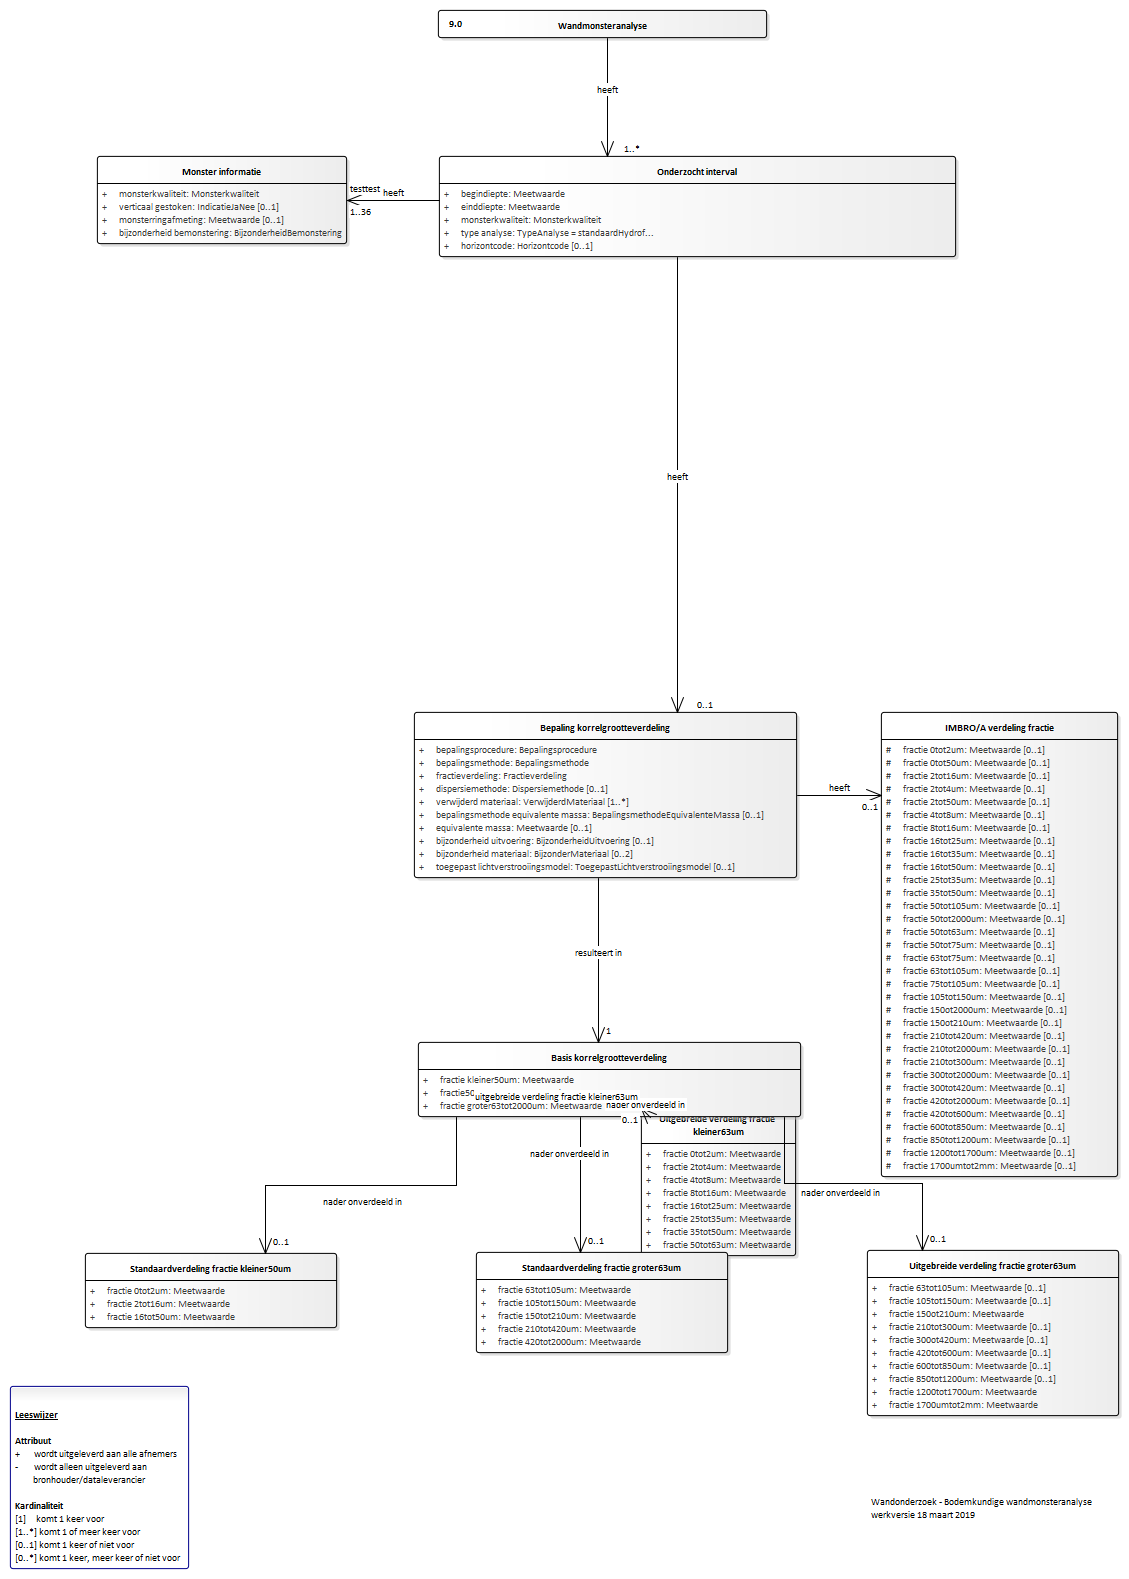
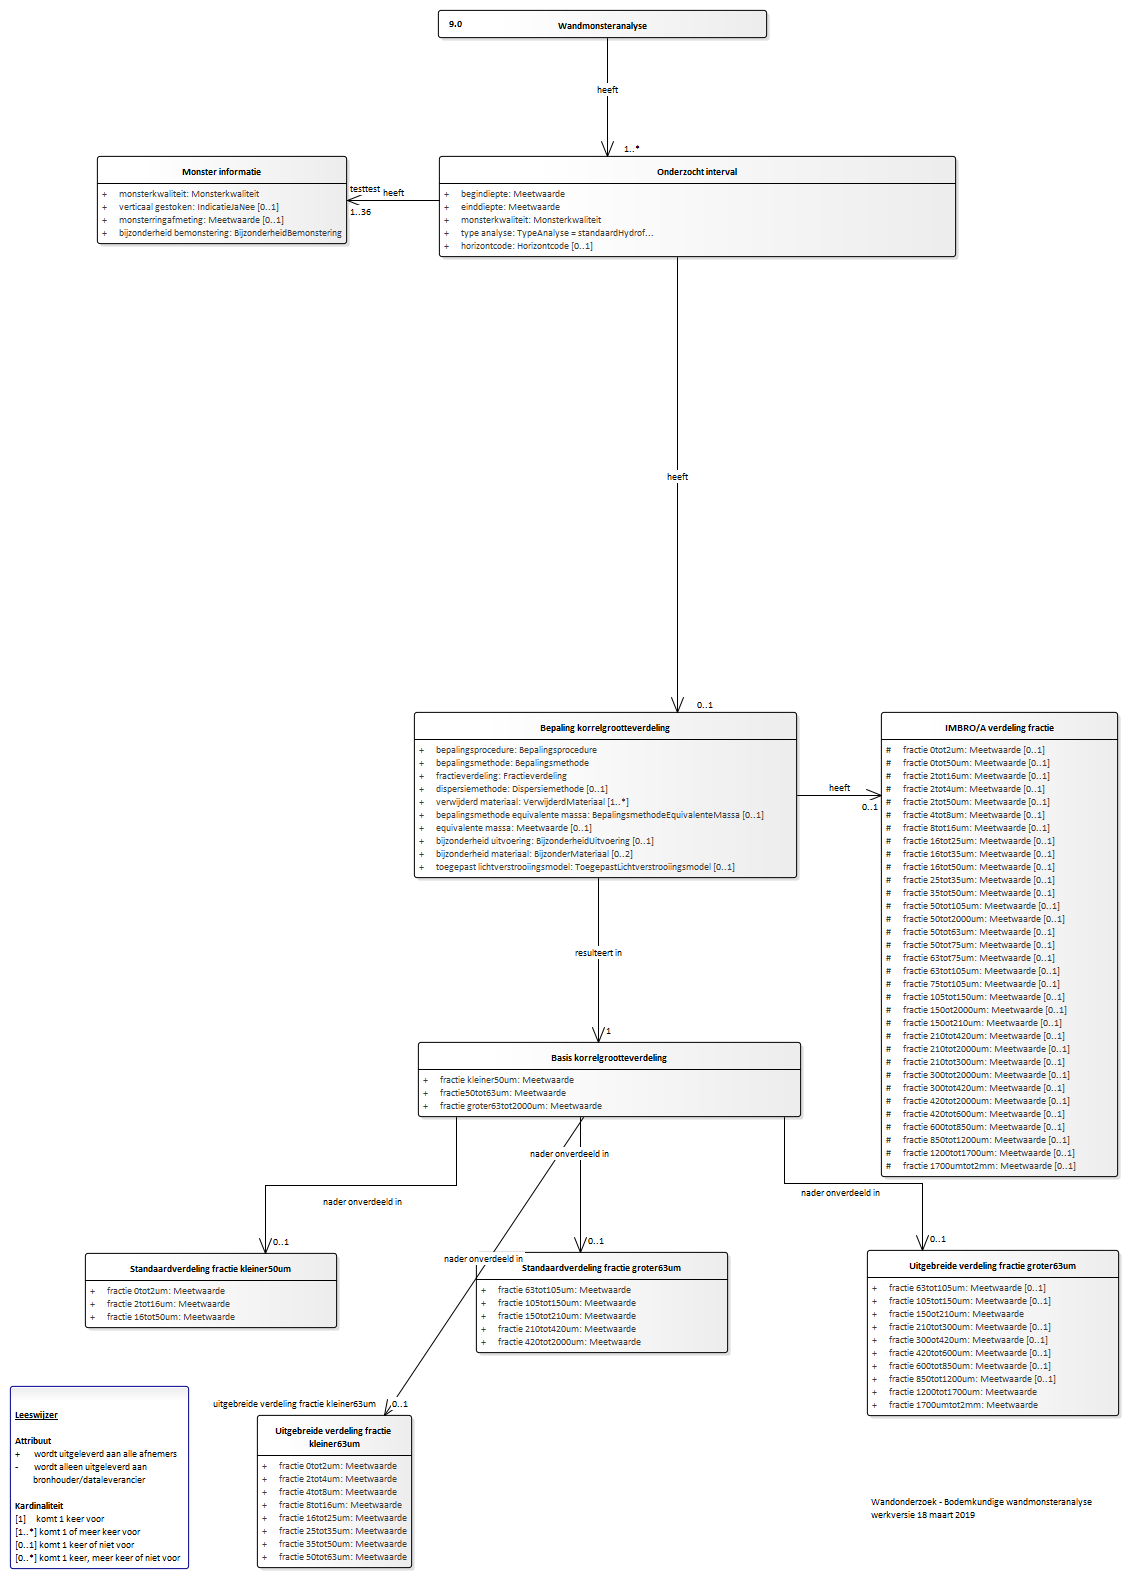
Conceptualmodel-BodemkundigwandonderzoektestSFR-test-1.0-0-20190724-20190725-122229

Changed region(s): [[0.217, 0.8689, 0.372, 1.0], [0.434, 0.6827, 0.713, 0.8068], [0.403, 0.7758, 0.465, 0.8068]]

diff --git a/data/SFR-test-cat.html b/data/SFR-test-cat.html
@@ -2,7 +2,7 @@
 <section id="cat" class="normative" level="1">
    <h2>Catalogus</h2>
    <p><b>Deze tekst is normatief.</b>
-      <!--Conceptualmodel-BodemkundigwandonderzoektestSFR-test-1.0-0-20190724-20190725-120726 imvertor 1.53.2--></p><a class="anchor" name="global_package_DomeinmodelBROCommonV09128012019"></a><section id="global_package_DomeinmodelBROCommonV09128012019" level="3">
+      <!--Conceptualmodel-BodemkundigwandonderzoektestSFR-test-1.0-0-20190724-20190725-122229 imvertor 1.53.2--></p><a class="anchor" name="global_package_DomeinmodelBROCommonV09128012019"></a><section id="global_package_DomeinmodelBROCommonV09128012019" level="3">
       <h3>Domein Domeinmodel BRO Common (v0.91 28-01-2019)</h3>
       <section id="" level="4">
          <h4>Gestruktureerde datatypen </h4>
@@ -16709,7 +16709,7 @@
 <section id="lis" class="normative" level="1">
    <h2>Inhoud van waardenlijsten</h2>
    <p><b>Deze tekst is normatief.</b>
-      <!--Conceptualmodel-BodemkundigwandonderzoektestSFR-test-1.0-0-20190724-20190725-120726 imvertor 1.53.2--></p>
+      <!--Conceptualmodel-BodemkundigwandonderzoektestSFR-test-1.0-0-20190724-20190725-122229 imvertor 1.53.2--></p>
    <section id="" level="3">
       <h3>Referentielijst inhoud </h3>
    </section>
